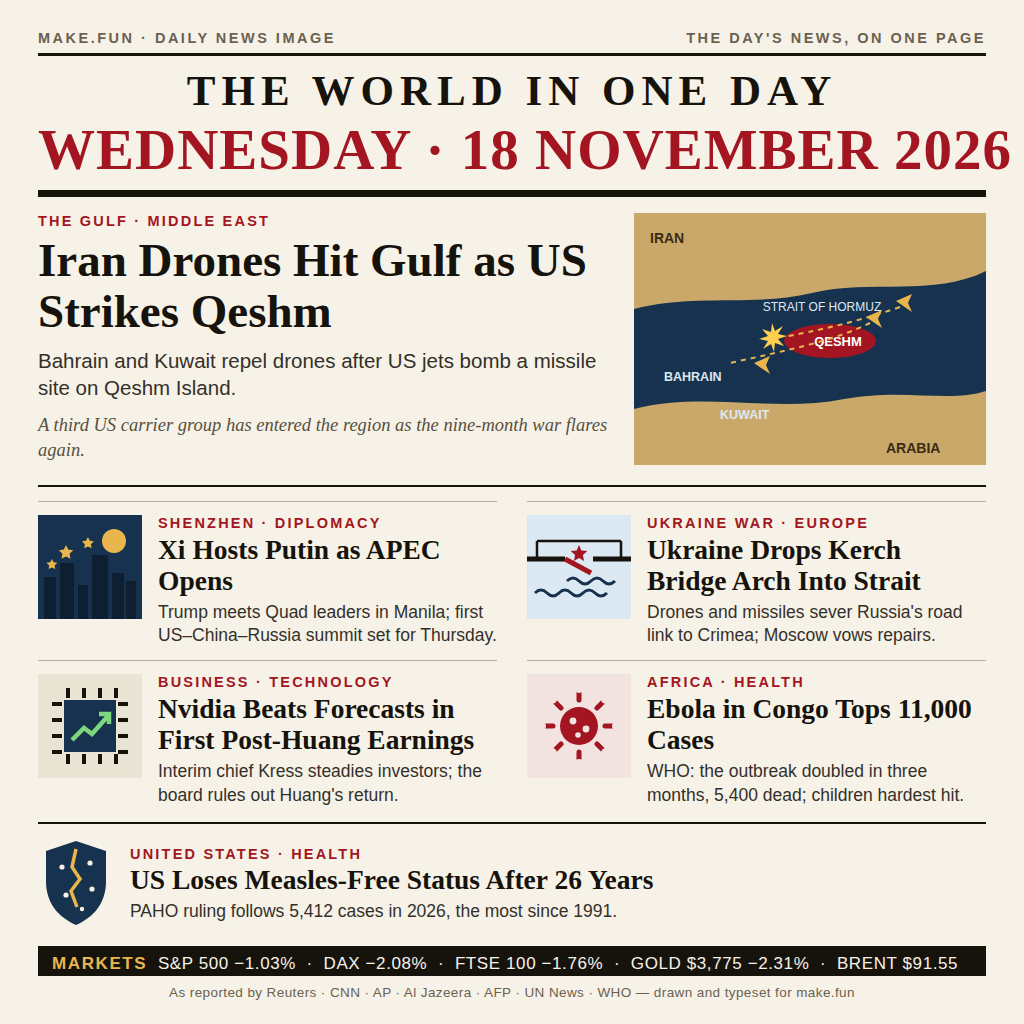
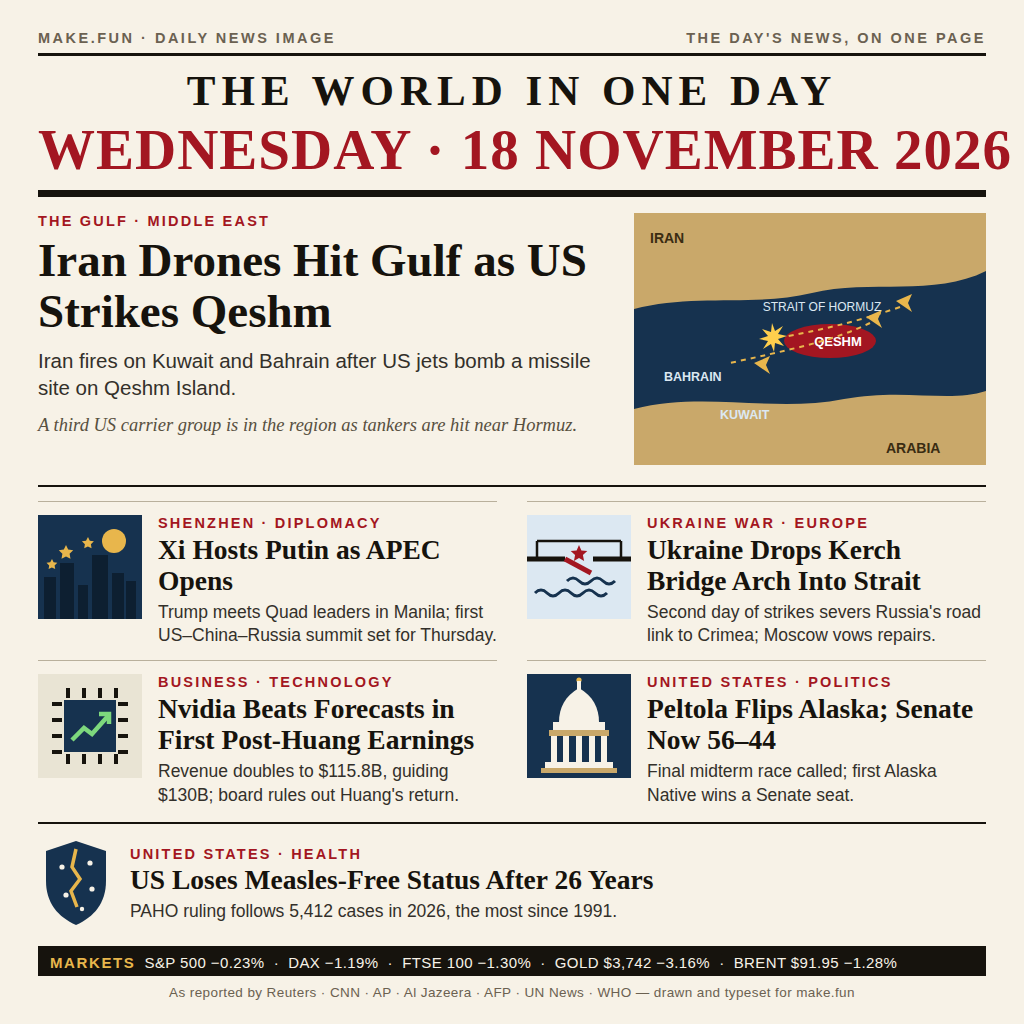
Refresh front page with the full day's news for 18 November 2026
- Gulf lead updated: Iran fires on Kuwait and Bahrain after the US
  Qeshm strike; third US carrier group in the region, tankers hit
- Kerch Bridge: second day of strikes severs the road link
- Nvidia: revenue doubles to $115.8B, guiding $130B; board rules
  out Huang's return
- Peltola flips Alaska; Democrats take a 56-44 Senate majority
  (replaces the Ebola tile)
- Markets strip corrected to Wednesday closes (S&P -0.23%, DAX
  -1.19%, FTSE -1.30%, gold $3,742, Brent $91.95)

diff --git a/design/page.html b/design/page.html
@@ -60,7 +60,7 @@
 
   .markets {
     margin-top: 13px; background: #16130d; color: #f7f2e7;
-    font-size: 17px; letter-spacing: 0.6px; padding: 8px 14px; white-space: nowrap; overflow: hidden;
+    font-size: 15px; letter-spacing: 0.4px; padding: 8px 12px; white-space: nowrap; overflow: hidden;
   }
   .markets b { color: #e8b64c; letter-spacing: 1.6px; }
   .sources { margin-top: 9px; text-align: center; font-size: 13.5px; color: #6b6151; letter-spacing: 0.4px; }
@@ -92,8 +92,8 @@ const DAY = "WEDNESDAY · 18 NOVEMBER 2026";
 const LEAD = {
   kicker: "THE GULF · MIDDLE EAST",
   headline: "Iran Drones Hit Gulf as US Strikes Qeshm",
-  caption: "Bahrain and Kuwait repel drones after US jets bomb a missile site on Qeshm Island.",
-  deck: "A third US carrier group has entered the region as the nine-month war flares again.",
+  caption: "Iran fires on Kuwait and Bahrain after US jets bomb a missile site on Qeshm Island.",
+  deck: "A third US carrier group is in the region as tankers are hit near Hormuz.",
   art: "hormuz"
 };
 
@@ -107,20 +107,20 @@ const STORIES = [
   {
     kicker: "UKRAINE WAR · EUROPE",
     headline: "Ukraine Drops Kerch Bridge Arch Into Strait",
-    caption: "Drones and missiles sever Russia's road link to Crimea; Moscow vows repairs.",
+    caption: "Second day of strikes severs Russia's road link to Crimea; Moscow vows repairs.",
     art: "bridge"
   },
   {
     kicker: "BUSINESS · TECHNOLOGY",
     headline: "Nvidia Beats Forecasts in First Post-Huang Earnings",
-    caption: "Interim chief Kress steadies investors; the board rules out Huang's return.",
+    caption: "Revenue doubles to $115.8B, guiding $130B; board rules out Huang's return.",
     art: "chip"
   },
   {
-    kicker: "AFRICA · HEALTH",
-    headline: "Ebola in Congo Tops 11,000 Cases",
-    caption: "WHO: the outbreak doubled in three months, 5,400 dead; children hardest hit.",
-    art: "virus"
+    kicker: "UNITED STATES · POLITICS",
+    headline: "Peltola Flips Alaska; Senate Now 56–44",
+    caption: "Final midterm race called; first Alaska Native wins a Senate seat.",
+    art: "capitol"
   }
 ];
 
@@ -131,7 +131,7 @@ const BOTTOM = {
   art: "shield"
 };
 
-const MARKETS = "<b>MARKETS</b>&nbsp;&nbsp;S&amp;P 500 −1.03%&nbsp;&nbsp;·&nbsp;&nbsp;DAX −2.08%&nbsp;&nbsp;·&nbsp;&nbsp;FTSE 100 −1.76%&nbsp;&nbsp;·&nbsp;&nbsp;GOLD $3,775 −2.31%&nbsp;&nbsp;·&nbsp;&nbsp;BRENT $91.55";
+const MARKETS = "<b>MARKETS</b>&nbsp;&nbsp;S&amp;P 500 −0.23%&nbsp;&nbsp;·&nbsp;&nbsp;DAX −1.19%&nbsp;&nbsp;·&nbsp;&nbsp;FTSE 100 −1.30%&nbsp;&nbsp;·&nbsp;&nbsp;GOLD $3,742 −3.16%&nbsp;&nbsp;·&nbsp;&nbsp;BRENT $91.95 −1.28%";
 const SOURCES = "As reported by Reuters · CNN · AP · Al Jazeera · AFP · UN News · WHO — drawn and typeset for make.fun";
 
 /* ---------------- small drawn pictures (inline SVG) ---------------- */
@@ -193,6 +193,23 @@ const ART = {
     <path d="M38,4 L68,14 V44 C68,66 56,80 38,88 C20,80 8,66 8,44 V14 Z" fill="#16324f"/>
     <path d="M38,12 L34,30 L42,42 L33,54 L39,70" stroke="#e8b64c" stroke-width="3.5" fill="none"/>
     <g fill="#f7f2e7"><circle cx="24" cy="30" r="2.6"/><circle cx="52" cy="26" r="2.6"/><circle cx="28" cy="58" r="2.6"/><circle cx="54" cy="52" r="2.6"/><circle cx="44" cy="72" r="2.2"/></g>
+  </svg>`,
+  capitol: `<svg width="104" height="104" viewBox="0 0 104 104">
+    <rect width="104" height="104" fill="#16324f"/>
+    <circle cx="52" cy="6" r="2.6" fill="#e8b64c"/>
+    <rect x="50" y="7" width="4" height="9" fill="#f7f2e7"/>
+    <path d="M52,14 C38,22 32,34 32,48 L72,48 C72,34 66,22 52,14 Z" fill="#f7f2e7"/>
+    <rect x="26" y="48" width="52" height="8" fill="#f7f2e7"/>
+    <rect x="22" y="56" width="60" height="6" fill="#c9a86a"/>
+    <g fill="#f7f2e7">
+      <rect x="24" y="62" width="6" height="26"/>
+      <rect x="36" y="62" width="6" height="26"/>
+      <rect x="49" y="62" width="6" height="26"/>
+      <rect x="62" y="62" width="6" height="26"/>
+      <rect x="74" y="62" width="6" height="26"/>
+    </g>
+    <rect x="18" y="88" width="68" height="6" fill="#f7f2e7"/>
+    <rect x="14" y="94" width="76" height="5" fill="#c9a86a"/>
   </svg>`
 };
 

diff --git a/README.md b/README.md
@@ -15,17 +15,19 @@ The date runs across the masthead; below it, the day's six most
 consequential stories, each with a small hand-drawn picture and a caption
 of a dozen words:
 
-- **The Gulf (lead):** Bahrain and Kuwait repel Iranian drones after US
-  jets bomb a missile site on Qeshm Island, in the Strait of Hormuz.
+- **The Gulf (lead):** Iran fires on Kuwait and Bahrain after US jets
+  bomb a missile site on Qeshm Island; a third US carrier group is in
+  the region as tankers are hit near Hormuz.
 - **Shenzhen:** Xi Jinping hosts Vladimir Putin as APEC opens; Donald
   Trump meets Quad leaders in Manila, with the first US–China–Russia
   summit set for Thursday.
-- **Ukraine war:** Ukrainian drones and missiles drop the Kerch Bridge's
+- **Ukraine war:** a second day of strikes drops the Kerch Bridge's
   road arch into the strait, severing Russia's road link to Crimea.
 - **Business:** Nvidia beats forecasts in its first earnings since Jensen
-  Huang's ouster; the board rules out his return.
-- **Africa:** DR Congo's Ebola outbreak tops 11,000 cases and 5,400
-  deaths, doubling in three months (WHO).
+  Huang's resignation — revenue doubles to $115.8B, guiding $130B — and
+  the board rules out his return.
+- **United States:** Mary Peltola flips Alaska, giving Democrats a 56–44
+  Senate majority; she is the first Alaska Native to win a Senate seat.
 - **United States:** the US loses its measles-elimination status after
   26 years, after 5,412 cases in 2026 — the most since 1991 (PAHO).
 
